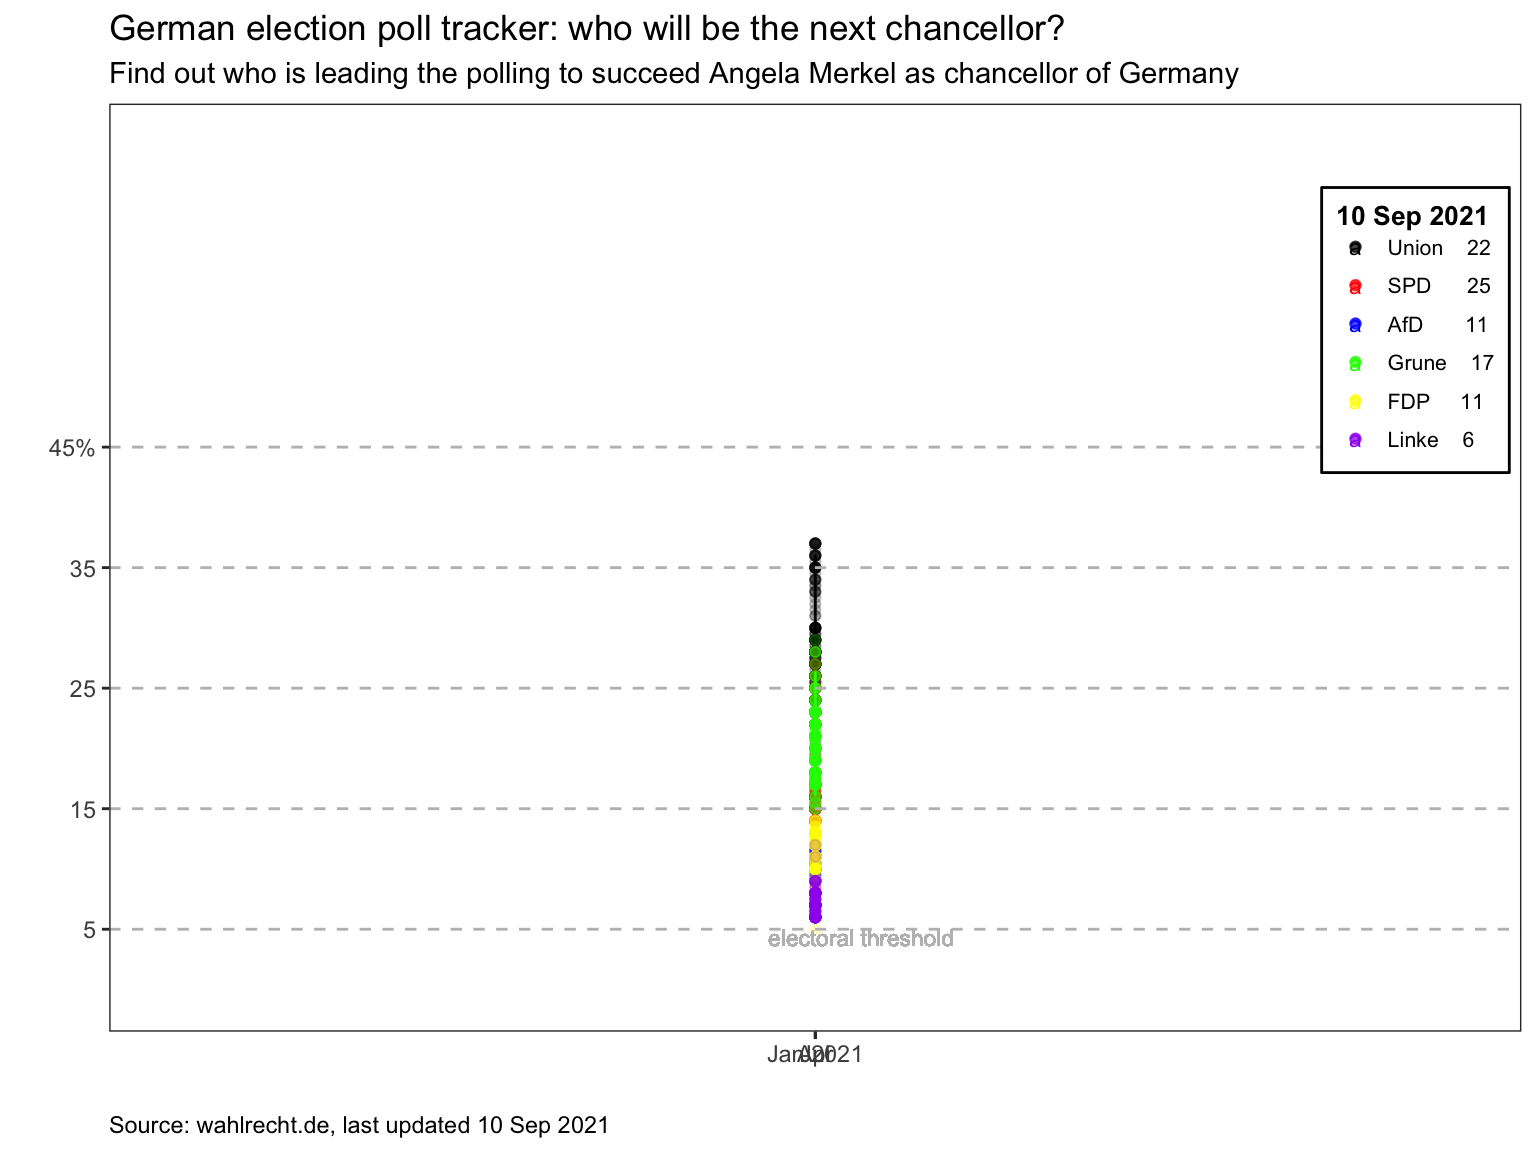
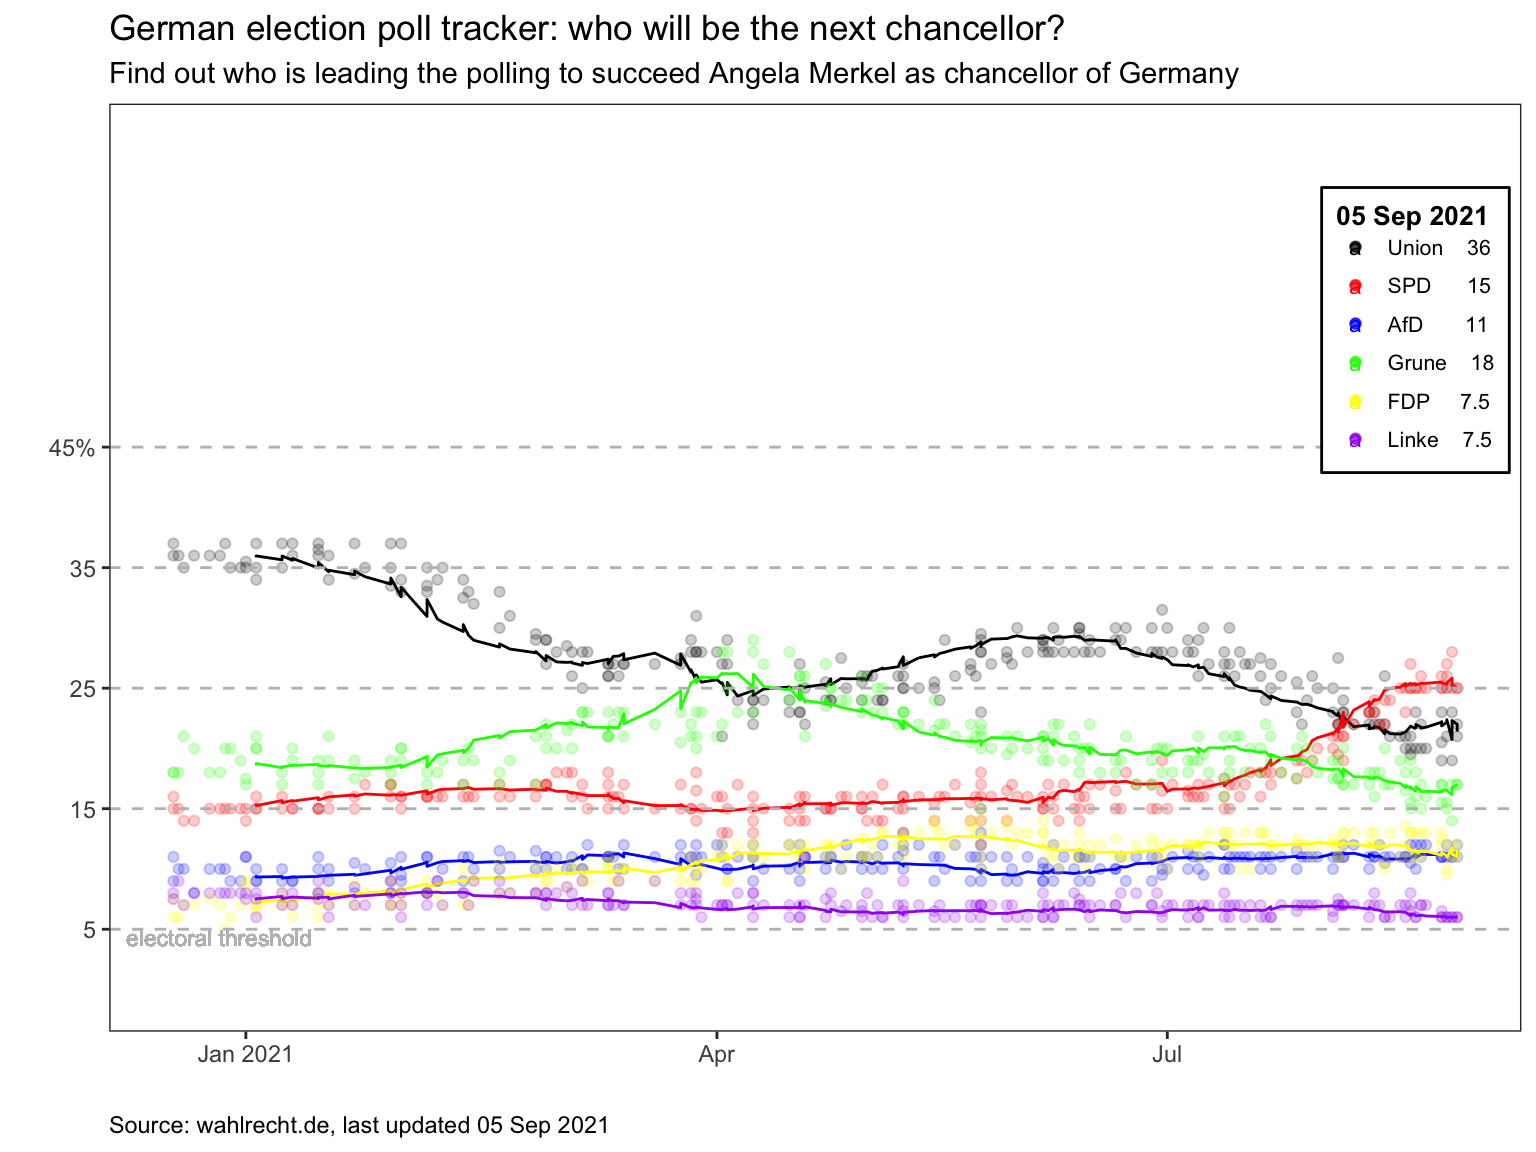
n

diff --git a/content/blogs/German_Election.html b/content/blogs/German_Election.html
@@ -16,7 +16,7 @@ title: Germany election 2021 forecast
 
 <div id="calculate-2-week-moving-average-of-opinion-polls-for-the-2021-german-elections" class="section level1">
 <h1>Calculate 2-week moving average of opinion polls for the 2021 German elections</h1>
-<p>The Guardian newspaper has an <a href="https://www.theguardian.com/world/2021/aug/20/german-election-poll-tracker-who-will-be-the-next-chancellor">election poll tracker for the upcoming German election</a>. The list of the opinion polls since Jan 2021 can be found at <a href="https://en.wikipedia.org/wiki/Opinion_polling_for_the_2021_German_federal_election">Wikipedia</a>. Here I will reproduce the graph with the following code. This is the picture from <a href="https://www.theguardian.com/world/2021/aug/20/german-election-poll-tracker-who-will-be-the-next-chancellor">The Guardian</a> that is replicated with the code. However, we choose to only plot the values for 2021. We keep the update date fixed at 10. September 2021 for simplicity.</p>
+<p>The Guardian newspaper has an <a href="https://www.theguardian.com/world/2021/aug/20/german-election-poll-tracker-who-will-be-the-next-chancellor">election poll tracker for the upcoming German election</a>. The list of the opinion polls since Jan 2021 can be found at <a href="https://en.wikipedia.org/wiki/Opinion_polling_for_the_2021_German_federal_election">Wikipedia</a>. Here I will reproduce the graph with the following code. This is the picture from <a href="https://www.theguardian.com/world/2021/aug/20/german-election-poll-tracker-who-will-be-the-next-chancellor">The Guardian</a> that is replicated with the code. However, we choose to only plot the values for 2021.</p>
 <p>Graph we will replicate:</p>
 <p><img src="/img/german_election.jpg" width="100%" style="display: block; margin: auto;" /></p>
 <p>Code:</p>
@@ -41,7 +41,7 @@ german_election_polls &lt;- polls[[1]] %&gt;% # the first table on the page cont
   mutate(
          # polls are shown to run from-to, e.g. 9-13 Aug 2021. We keep the last date, 13 Aug here, as the poll date
          # and we extract it by picking the last 11 characters from that field
-         end_date = &quot;10-09-2021&quot;,
+         end_date = str_sub(fieldwork_date, -11),
          
          # end_date is still a string, so we convert it into a date object using lubridate::dmy()
          end_date = dmy(end_date),
@@ -84,16 +84,16 @@ german_polls</code></pre>
 <pre><code>## # A tibble: 225 × 22
 ##    polling_firm        end_date   samplesize union   spd  af_d   fdp linke grune
 ##    &lt;chr&gt;               &lt;date&gt;          &lt;dbl&gt; &lt;dbl&gt; &lt;dbl&gt; &lt;dbl&gt; &lt;dbl&gt; &lt;dbl&gt; &lt;dbl&gt;
-##  1 Forschungsgruppe W… 2021-09-10       1281  22      25    11  11     6    17  
-##  2 Kantar              2021-09-10       1901  21      25    12  12     6    17  
-##  3 Wahlkreisprognose   2021-09-10       1208  19      28    11  12     6    14  
-##  4 Civey               2021-09-10      10082  23      25    11  11     6    17  
-##  5 YouGov              2021-09-10       1700  21      26    12  10     6    15  
-##  6 Allensbach          2021-09-10       1258  25      27    11   9.5   6    15.5
-##  7 INSA                2021-09-10       2052  20.5    26    11  12.5   6.5  15.5
-##  8 GMS                 2021-09-10       1004  23      25    11  12     6    17  
-##  9 Forsa               2021-09-10       2505  19      25    11  13     6    17  
-## 10 INSA                2021-09-10       1427  20      25    12  13     7    16  
+##  1 Forschungsgruppe W… 2021-09-09       1281  22      25    11  11     6    17  
+##  2 Kantar              2021-09-09       1901  21      25    12  12     6    17  
+##  3 Wahlkreisprognose   2021-09-08       1208  19      28    11  12     6    14  
+##  4 Civey               2021-09-08      10082  23      25    11  11     6    17  
+##  5 YouGov              2021-09-07       1700  21      26    12  10     6    15  
+##  6 Allensbach          2021-09-07       1258  25      27    11   9.5   6    15.5
+##  7 INSA                2021-09-06       2052  20.5    26    11  12.5   6.5  15.5
+##  8 GMS                 2021-09-06       1004  23      25    11  12     6    17  
+##  9 Forsa               2021-09-06       2505  19      25    11  13     6    17  
+## 10 INSA                2021-09-03       1427  20      25    12  13     7    16  
 ## # … with 215 more rows, and 13 more variables: union_votes &lt;dbl&gt;,
 ## #   spd_votes &lt;dbl&gt;, af_d_votes &lt;dbl&gt;, fdp_votes &lt;dbl&gt;, linke_votes &lt;dbl&gt;,
 ## #   grune_votes &lt;dbl&gt;, samplesizem &lt;dbl&gt;, unionm &lt;dbl&gt;, spdm &lt;dbl&gt;,
@@ -143,9 +143,9 @@ german_polls %&gt;%
   geom_text(aes(end_date[length(end_date)],5, label= &quot;  electoral threshold&quot;, color = &quot;grey&quot;, vjust=1, hjust=0.3), size=3) +
   
   #Set colors of legend 
-  scale_color_identity(name= &quot;10 Sep 2021&quot;, breaks=c(&quot;black&quot;, &quot;red&quot;, &quot;blue&quot;, &quot;green&quot;, &quot;yellow&quot;, &quot;purple&quot;),
+  scale_color_identity(name= &quot;05 Sep 2021&quot;, breaks=c(&quot;black&quot;, &quot;red&quot;, &quot;blue&quot;, &quot;green&quot;, &quot;yellow&quot;, &quot;purple&quot;),
                        labels=  c(union_rate, spd_rate, af_d_rate, grune_rate, fdp_rate, linke_rate),
-                       guide = &quot;legend&quot;) + #Create a legend 
+                       guide = &quot;legend&quot;) + 
   
   theme_bw() +
   
@@ -168,7 +168,7 @@ german_polls %&gt;%
                      labels = c(&quot;Jan 2021&quot;, &quot;Apr&quot;, &quot;Jul&quot;)) +
   
   #Label the graph
-  labs(caption = &quot;Source: wahlrecht.de, last updated 10 Sep 2021&quot;,
+  labs(caption = &quot;Source: wahlrecht.de, last updated 05 Sep 2021&quot;,
   title=&quot;German election poll tracker: who will be the next chancellor?&quot;,
   subtitle = &quot;Find out who is leading the polling to succeed Angela Merkel as chancellor of Germany&quot;,
   x = &quot;&quot;,
